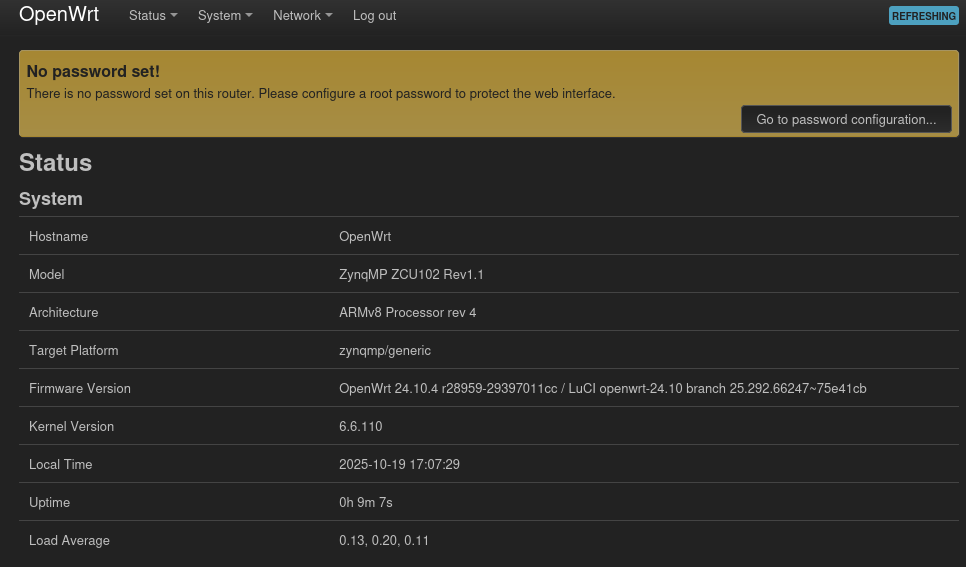
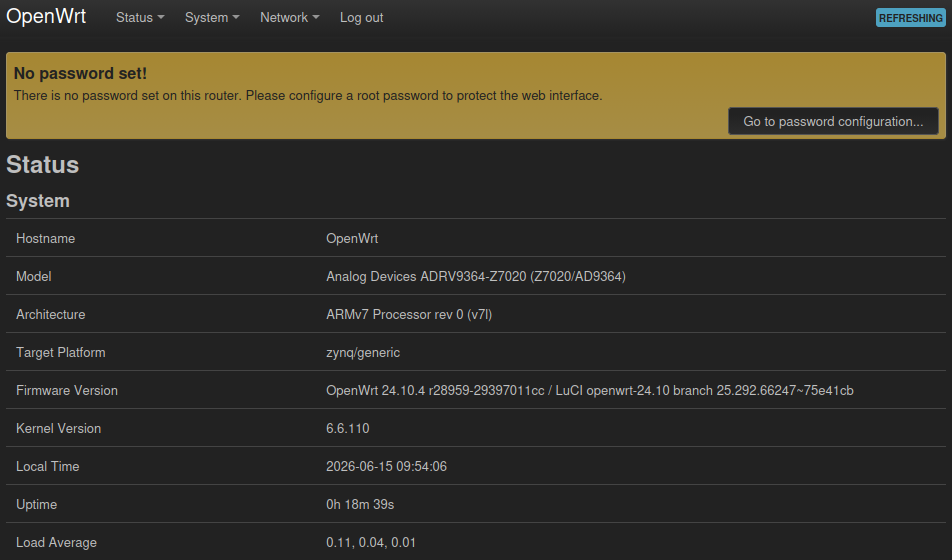
Update nlnet documentation

Changed region(s): [[0.0, 0.0, 1.0, 0.9107], [0.3351, 0.9411, 0.4569, 1.0], [0.0305, 0.9411, 0.1218, 1.0]]

diff --git a/doc/img_build_instruction/openwrt/openwrt.md b/doc/img_build_instruction/openwrt/openwrt.md
@@ -8,35 +8,126 @@ SPDX-License-Identifier: AGPL-3.0-or-later
 # Using openwifi with OpenWrt
 ## Table of contents
 - [Support matrix](#support-matrix)
-- **[Getting started: Creating an OpenWrt image with openwifi installed for a supported board + usage example](#creating-an-openwrt-image-with-openwifi-installed-for-a-supported-board)**
+- **[Quick start: Openwifi AP using prebuild OpenWrt image](#quick-start-openwifi-ap-using-prebuild-openwrt-image)**
+- **[Usage examples: IQ & CSI capture](#usage-examples-iq--csi-capture)**
+- **[Creating an OpenWrt image with openwifi installed for a supported board](#creating-an-openwrt-image-with-openwifi-installed-for-a-supported-board)**
 - [Tips and tricks for openwifi on OpenWrt](#tips-and-tricks-for-openwifi-on-openwrt)
 - [Debugging](#debugging)
 - [Known issues](#known-issues)
 
 # Support matrix
-Tested = [usage example](#usage-example-create-openwifi-ap-via-luci) works + IQ capture and CSI works
 
 (In case a board that we support does not work, contact us)
 
-| Board | Supported | Tested | Comments |
-|-------|-----------|--|----------|
-| zc706_fmcs2 | ✅ | ✅ | |
-| zed_fmcs2 | ✅ | ✅ | |
+| Board         | Supported | Tested | Comments |
+|---------------|-----------|--|----------|
+| zc706_fmcs2   | ✅ | ✅ | |
+| zed_fmcs2     | ✅ | ✅ | |
 | adrv9364z7020 | ✅ | ✅ | |
 | adrv9361z7035 | ✅ | ✅ | |
-| zc702_fmcs2 | ✅ |  | |
-| antsdr | ✅ |  | |
-| e310v2 | ✅ |  | |
-| antsdr_e200 | ✅ |  | |
-| sdrpi | ✅ |  | |
-| zcu102_fmcs2 | ✅ | ✅ | ⚠️ Fails on some boards, see [here](../../known_issue/notter.md#no-uart-output-on-zcu102). |
-| neptunesdr | ✅ |  | |
+| zc702_fmcs2   | ✅ |  | |
+| antsdr        | ✅ |  | |
+| e310v2        | ✅ |  | |
+| antsdr_e200   | ✅ |  | |
+| sdrpi         | ✅ |  | |
+| zcu102_fmcs2  | ✅ | ✅ | ⚠️ Fails on some boards, see [here](../../known_issue/notter.md#no-uart-output-on-zcu102). |
+| neptunesdr    | ✅ |  | |
+
+# Quick start: Openwifi AP using prebuild OpenWrt image
+This is the equivalent of the ./fosdem.sh demo used for kuiper but via OpenWrt its web interface LuCi.
+
+Instructions to use prebuild OpenWrt image with openwifi support.
+Do note that these images contain the bare minimum for openwifi to run.
+
+Download image for your board [here]() and flash it to SD card using instructions [below](#unzip-image--flash-image).
+
+## Unzip & flash image
+Flash image to SD card, assuming you downloaded the prebuild image for adrv9364z7020 (if not, beware of the paths).
+
+Run the following command to change directory to ~/Downloads and unzip img.gz:
+```
+cd ~/Downloads && gunzip openwrt-zynq-generic-analog_devices_zynq-adrv9364-squashfs-sdcard.img.gz
+```
+Flash image to SD card:
+```
+sudo dd if=~/Downloads/openwrt-zynq-generic-analog_devices_zynq-adrv9364-squashfs-sdcard.img of=/dev/mmcblk0 status=progress
+```
+
+## First boot & internet access
+Boot the board. After a minute, the 'openwrt-openwifi' SSID should now be discoverable by your phone (2.4 GHz, channel 1)!
+If you connect, you will get an IP address but no internet access.
+
+To enable internet access, connect the board via Ethernet cable to your PC, it will by default assign ```192.168.10.1```.
+Check the interface names on your pc via ```ip addr```.
+
+Run (first argument is interface with internet access, second one to board):
+```
+./give_board_internet_access.sh wlan0 eth0
+```
+
+**Done!** Both the board and the connected clients should have internet access.
+
+**Note:** The default OpenWrt network configuration when openwifi package is installed; is for research, not for deployment.
+If you want to deploy the board, ensure that its ```eth0``` interface is in the **wan** zone and is **DHCP client** instead of DHCP server, the wireless network can be assigned to lan.
+
+### Extra: Access LuCi, OpenWrt's web interface
+Open the web browser and surf to ```http://192.168.10.122``` on your PC, or to ```http://192.168.13.1``` on a device connected to 'openwrt-openwifi'.
+The following webpage should appear (first login, by default there is no password set, I recommend to change this for use in actual deployment):
+
+<img src="./img/luci_status_page.png" width="900">
+
+Go to **Network -> Wireless** and the following page should be shown:
+
+<img src="./img/luci_wireless_page.png" width="900">
+
+Here you can tweak the wireless settings however you prefer.
+
+# Usage examples: IQ & CSI capture
+Assumes you previously performed the [quick start](#quick-start-openwifi-ap-using-prebuild-openwrt-image).
+Note that current [app notes](../../app_notes/README.md) for Kuiper are also valid for OpenWrt with some minor differences.
+
+## IQ capture
+Ssh to board, install side_ch kernel module, and set trigger conditions.
+```
+ssh root@192.168.10.122
+insmod side_ch iq_len_init=4095
+side_ch_ctl wh11d0 % Set pre-trigger length
+```
+Start the transmission from the client (openwifi board), to the server (host PC):
+```
+side_ch_ctl g
+```
+
+On the host PC:
+```
+cd openwifi/user_space/side_ch_ctl_src
+python3 iq_capture.py 4095
+```
+
+## CSI capture
+Ssh to board, install side_ch kernel module.
+```
+ssh root@192.168.10.122
+insmod side_ch
+```
+Start the transmission from the client (openwifi board), to the server (host PC):
+```
+side_ch_ctl g
+```
+
+On the host PC:
+```
+cd openwifi/user_space/side_ch_ctl_src
+python3 side_info_display.py
+```
 
 # Creating an OpenWrt image with openwifi installed for a supported board
 The instructions are given as if you were to build everything in this directory.
 
 ## Prerequisits
-We highly advice to build OpenWrt inside a docker container (conform the instructions below). As such, the only real prerequisite is **Docker installed** on a Linux machine (did not try Windows). Vivado installation is **not** required.
+We recommend to build OpenWrt inside a docker container (conform the instructions below).
+As such, the only real prerequisite is **Docker installed** on a Linux machine (did not try Windows).
+Vivado installation is **not** required.
 
 ## Cloning the OpenWrt source code
 The OpenWrt v24.10 (Linux kernel v6.6, mac80211 v6.12) source with openwifi support is found [here](https://github.com/open-sdr/openwrt-openwifi).
@@ -57,25 +148,50 @@ docker build --rm --tag openwrt:debian_12 --file ./Dockerfile ./openwrt-openwifi
 ```
 
 ## Update package feeds
-Running this command will retrieve the openwrt-openwifi-packages-feed found [here](https://github.com/open-sdr/openwrt-openwifi-packages-feed). The package feed for openwifi is added in OpenWrt by editing its feeds.conf.default file. By default, the feed source should be git. If you want to edit the feed, you should use a local source of feed, see [here](#use-local-source-of-package-feed).
+Running this command will retrieve the openwrt-openwifi-packages-feed found [here](https://github.com/open-sdr/openwrt-openwifi-packages-feed).
+The package feed for openwifi is added in OpenWrt by editing its feeds.conf.default file.
+By default, the feed source should be git.
+If you want to edit the feed, you should use a local source of feed, see [here](#use-local-source-of-package-feed).
 ```
 ./scripts/feeds update
 ./scripts/feeds install -a
 ```
 
 ## Configure build
+### Default configuration
+**Bare minimum** default configurations of OpenWrt with openwifi selected are provided in ./openwrt-openwifi/configs folder.
+
+```
+cp configs/adrv9364z7020_defconfig .config
+```
+
+### Manual configuration
 ```
 make menuconfig
 ```
 Select:
 - Architecture (zynq or zynqmp)
+<img src="./img/architecture.png" width="900">
 - Board
+<img src="./img/board.png" width="900">
 - Openwifi kernel module under:
-    - Kernel Modules -> Wireless Drivers -> openwifi (compilation of user space tools is optional). Note that selecting openwifi will by default also select LuCi (OpenWrt its web interface). 
+  - Kernel Modules
+  
+  <img src="./img/kernel_modules.png" width="200">
+  
+  - Wireless Drivers
+  
+  <img src="./img/wireless_drivers.png" width="300">
+  
+  - Openwifi kernel package
+  
+  <img src="./img/kmod-openwifi.png" width="900">
+
 - Other packages you may want to use with openwifi/OpenWrt. Recommendations:
     - Network -> SSH -> openssh-sftp-server (Allows use of scp command to board)
+    - Utilities -> Editors -> nano (Or stick to vim)
 
-Save config.
+Save and exit menuconfig.
 
 ## Build
 ```
@@ -85,36 +201,10 @@ We recommend to keep the number of jobs low (~3) works fine.
 Increasing number of jobs decreases build time put risks error due to dependencies.
 If it throws an error, try to resume the build with fewer jobs.
 
-## Usage example: Create openwifi AP via LuCi
-This is the equivalent of the ./fosdem.sh demo used for kuiper but via OpenWrt its web interface LuCi. 
+## Flash image
+Exit the docker container (Ctrl + D).
+See [Unzip & flash image](#unzip--flash-image) (mind the different paths).
 
-**The board should automatically boot with IP address assignment via DHCP.** Hence, you can plug it into your home network and surf to the following url:
-```
-http://openwrt.lan
-```
-It can be that openwrt.lan should be replaced by its actual IP address.
-
-**In case this would fail or you prefer a static IP**, you can connect via UART and change the network config under */etc/config/network*. To set a static IP typical to a home router, change br-lan config to:
-```
-config interface 'lan'
-    option device 'br-lan'
-    option proto 'static'
-    option ipaddr '192.168.1.1'
-    option netmask '255.255.255.0'
-```
-Changes are applied after */etc/init.d/network restart*. DNS and gateway can also be set here or later in LuCi.
-
-The following webpage should appear (first login, by default there is no password set, I advice to change this for use in actual deployment):
-
-<img src="./img/luci_status_page.png" width="900">
-
-Go to **Network -> Wireless**
-
-<img src="./img/luci_wireless_page.png" width="900">
-
-Click on **Enable**.
-
-Done!
 
 
 # Tips and tricks for openwifi on OpenWrt

diff --git a/README.md b/README.md
@@ -11,7 +11,7 @@ SPDX-License-Identifier: AGPL-3.0-or-later
 
 - We remain committed to open source, which is our foundation. To access advanced features and dedicated support, consider a **SUBSCRIPTION**. More info on https://openwifi.tech
 
-[[Download img and Quick start](#Download-img-and-Quick-start)] [[known issue](doc/known_issue/notter.md)] [[**Tips for Windows users**](https://github.com/open-sdr/openwifi/discussions/341)]
+[[Download img and Quick start](#Download-img-and-Quick-start)] [[OpenWRT quick start](./doc/img_build_instruction/openwrt/openwrt.md#quick-start-openwifi-ap-using-prebuild-openwrt-image)] [[known issue](doc/known_issue/notter.md)] [[**Tips for Windows users**](https://github.com/open-sdr/openwifi/discussions/341)]
 
 This repository includes Linux driver and software. **openwifi-hw** repository has the FPGA design. It is **YOUR RESPONSIBILITY** to follow your **LOCAL SPECTRUM REGULATION** or use **CABLE** to avoid potential interference over the air.
 